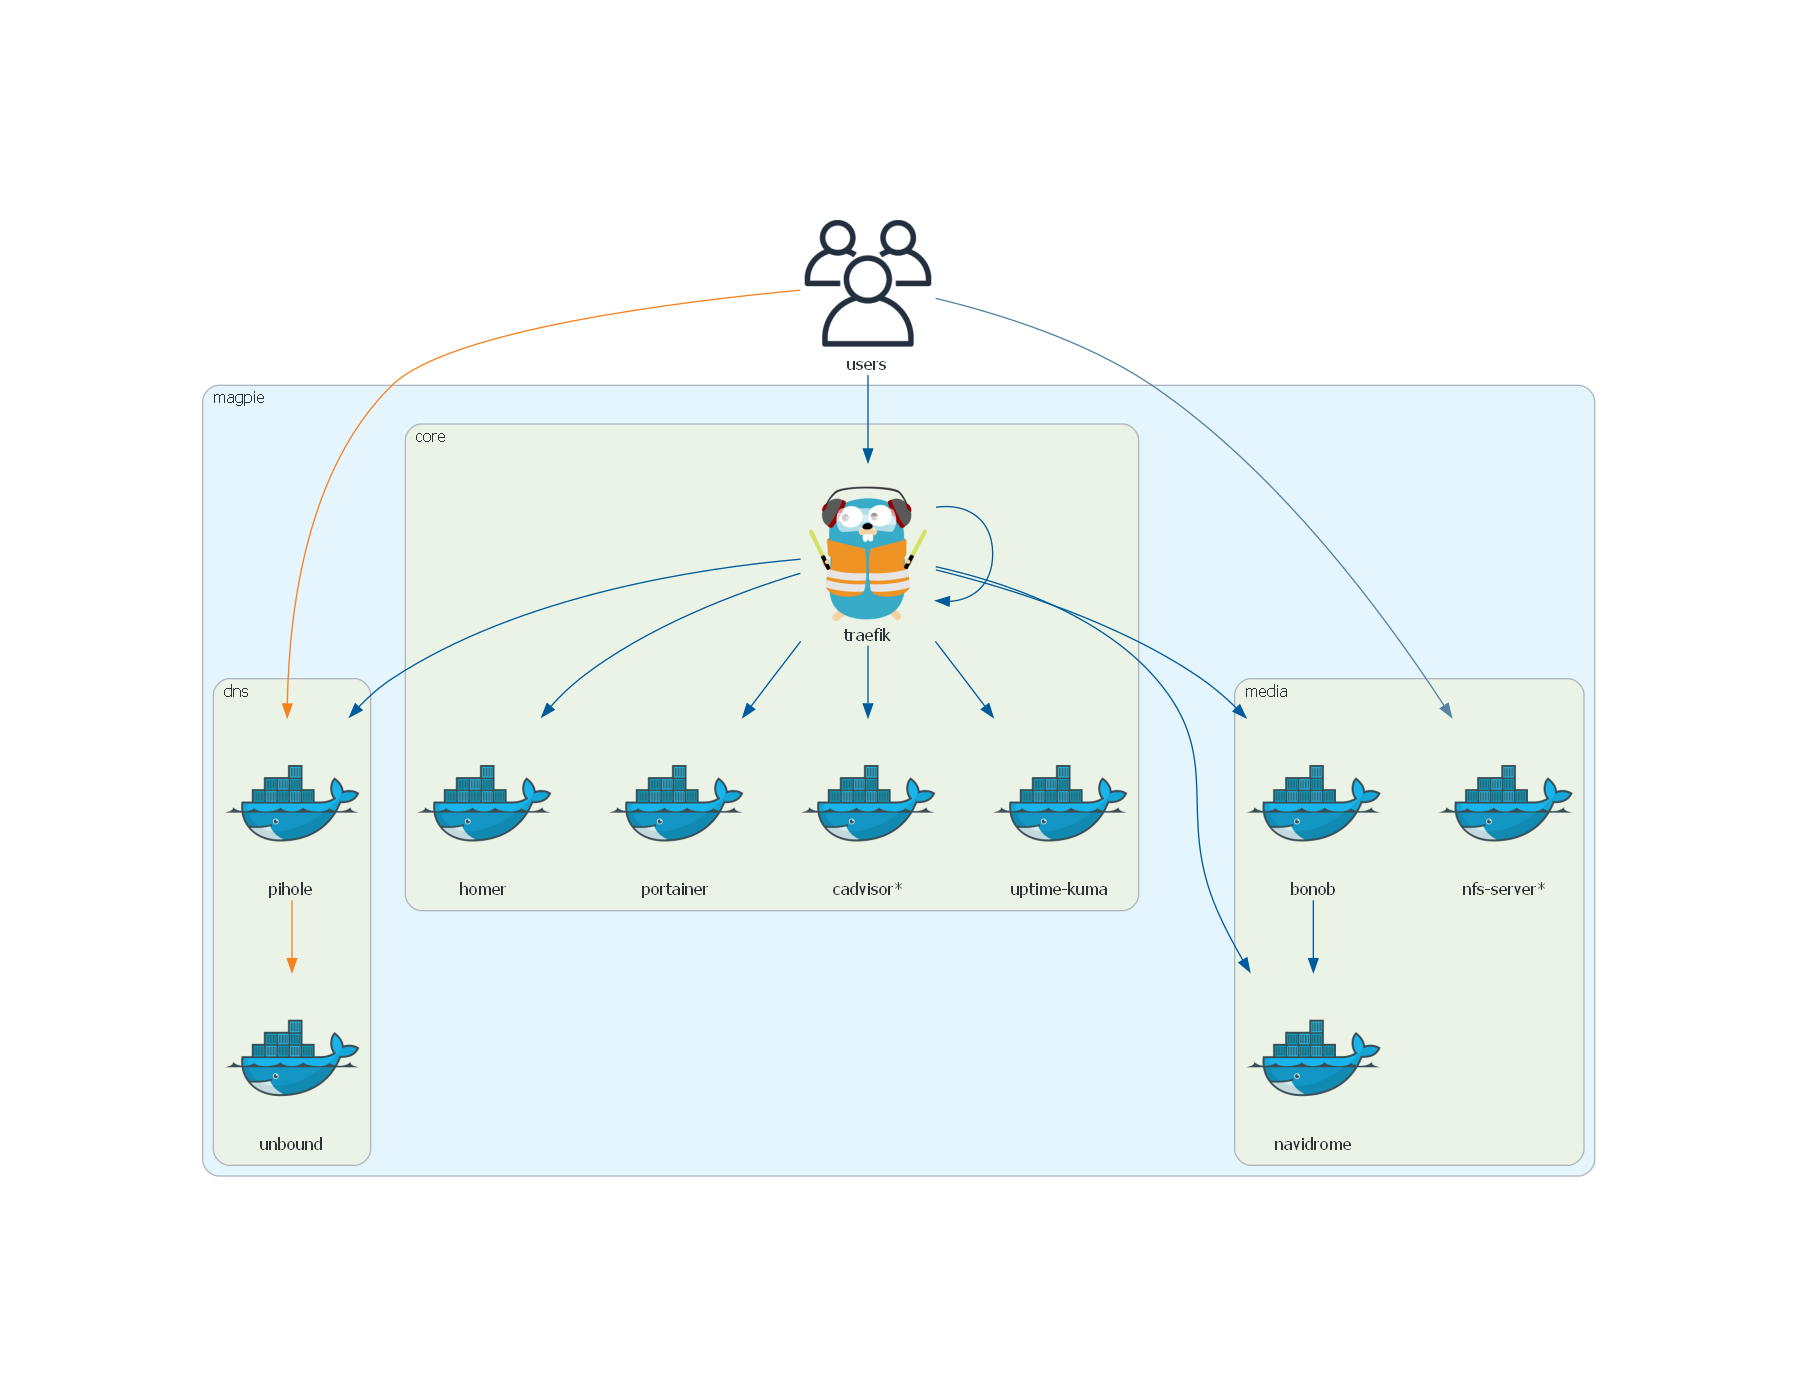
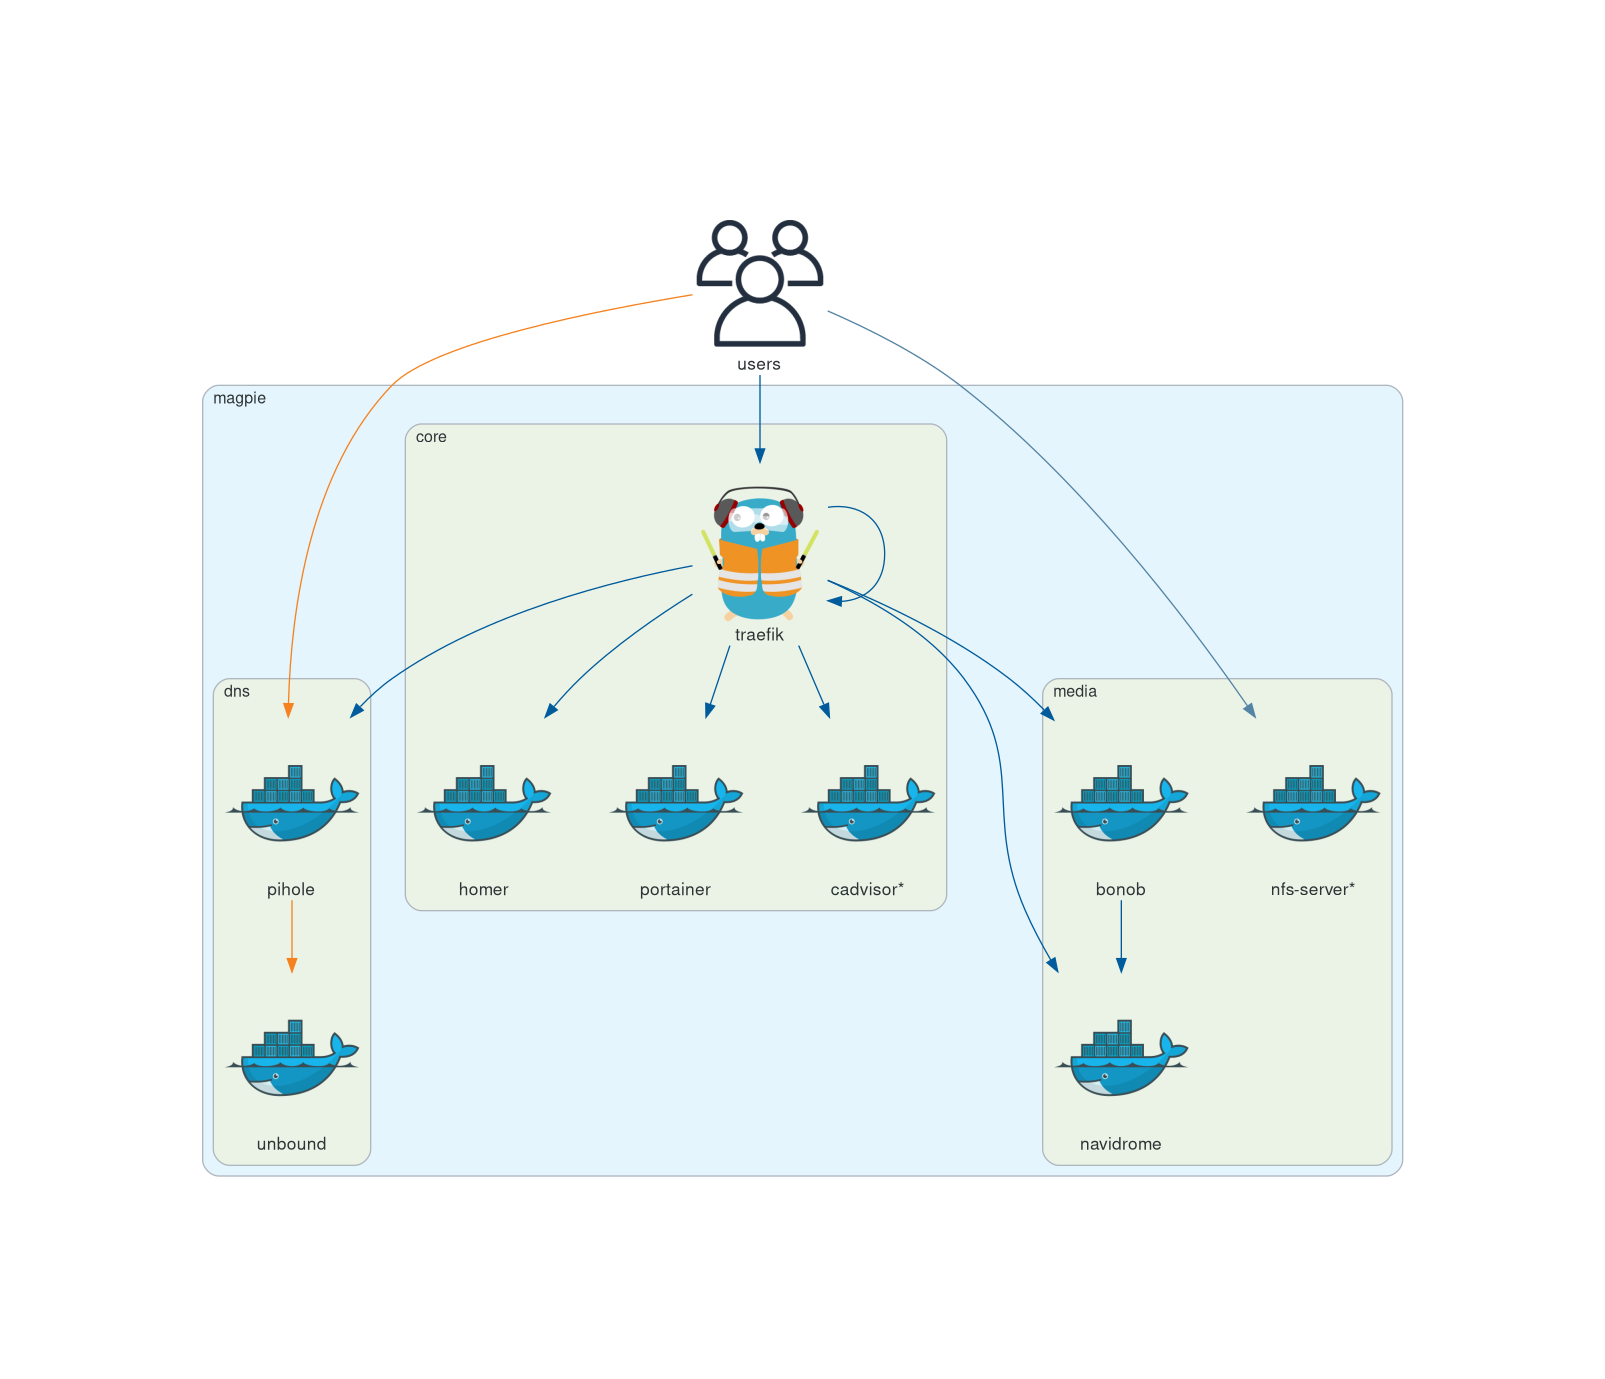
docs: remove uptime-kuma

diff --git a/diagram.py b/diagram.py
@@ -30,18 +30,13 @@ with Diagram(
             homer = Docker("homer")
             portainer = Docker("portainer")
             cadvisor = Docker("cadvisor*")
-            uptime_kuma = Docker("uptime-kuma")
 
         with Cluster("media"):
             navidrome = Docker("navidrome")
             bonob = Docker("bonob")
             nfs_server = Docker("nfs-server*")
 
-    (
-        traefik
-        >> http
-        >> [traefik, homer, portainer, cadvisor, uptime_kuma, pihole, bonob, navidrome]
-    )
+    traefik >> http >> [traefik, homer, portainer, cadvisor, pihole, bonob, navidrome]
 
     pihole >> dns >> unbound
     bonob >> http >> navidrome
